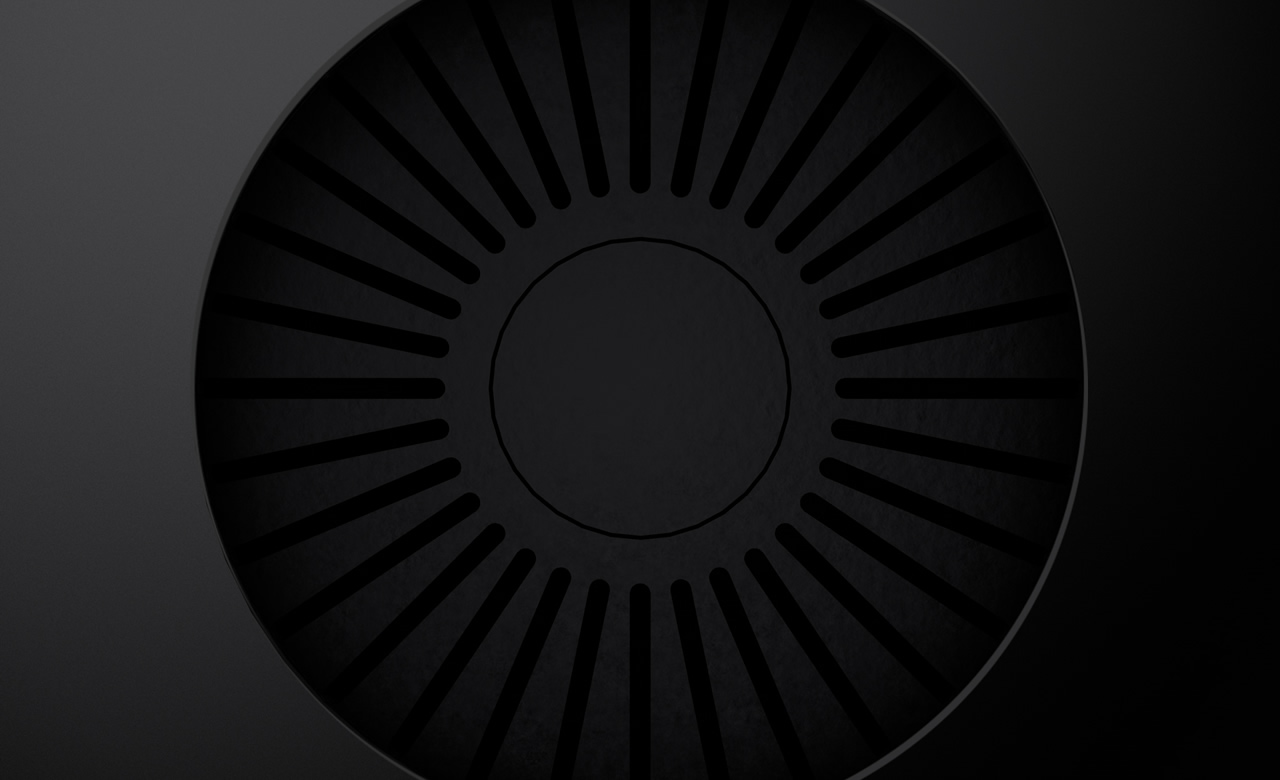
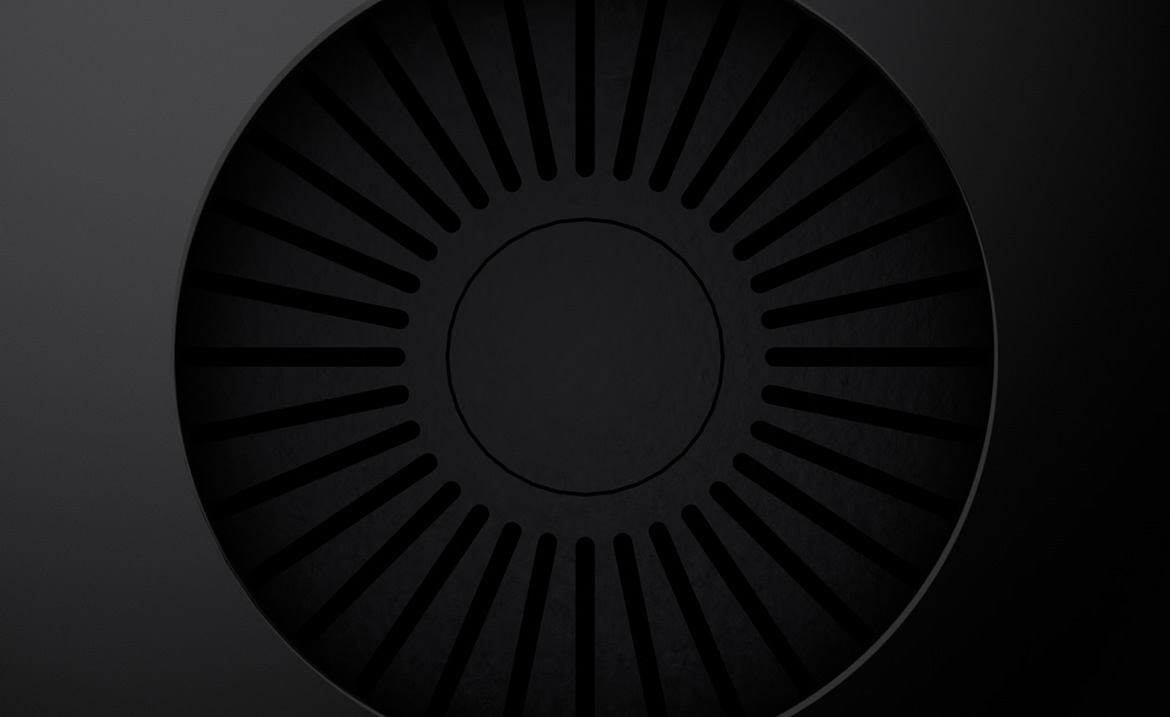
update style

diff --git a/index.html b/index.html
@@ -497,9 +497,11 @@ Mars is a new hub for music that fuses sci-fi design with precise, thoughtful en
     
     <div class="dv_100 hidden-xs"></div>
     <div class="dv_36 hidden-sm"></div>
-     <div class="row" style="margin-right:0px;">
-  <div class="col-lg-6"><img class="img-responsive" src="imgs/s2.jpg"/></div>
-  <div class="col-lg-6"><img class="img-responsive" src="imgs/s5.jpg"/></div></div>
+     <div class="row hidden-lg" style="margin-right:0px;">
+  <div class="col-xs-12 col-md-6 col-lg-6" style="padding:0;"><img class="img-responsive" src="imgs/s2.jpg"/></div><div class="dv_20 hidden-md hidden-lg"></div><div class="col-xs-12 col-md-6 col-lg-6" style="padding:0;"><img class="img-responsive" src="imgs/s5.jpg"/></div></div>
+  
+  <div class="row hidden-xs hidden-sm hidden-md" style="margin-right:0px;">
+  <div class="col-xs-12 col-md-6 col-lg-6"><img class="img-responsive" src="imgs/s2.jpg"/></div><div class="dv_20 hidden-md hidden-lg"></div><div class="col-xs-12 col-md-6 col-lg-6"><img class="img-responsive" src="imgs/s5.jpg"/></div></div>
 
   <div class="dv_22 hidden-xs"></div>
   

diff --git a/cn/index.html b/cn/index.html
@@ -484,10 +484,12 @@
     </div><!-- /.container -->    
     
     <div class="dv_100 hidden-xs"></div>
-    
-     <div class="row" style="margin-right:0px;">
-  <div class="col-lg-6"><img class="img-responsive" src="imgs/s2.jpg"/></div>
-  <div class="col-lg-6"><img class="img-responsive" src="imgs/s5.jpg"/></div></div>
+    <div class="dv_36 hidden-sm"></div>
+     <div class="row hidden-lg" style="margin-right:0px;">
+  <div class="col-xs-12 col-md-6 col-lg-6" style="padding:0;"><img class="img-responsive" src="imgs/s2.jpg"/></div><div class="dv_20 hidden-md hidden-lg"></div><div class="col-xs-12 col-md-6 col-lg-6" style="padding:0;"><img class="img-responsive" src="imgs/s5.jpg"/></div></div>
+  
+  <div class="row hidden-xs hidden-sm hidden-md" style="margin-right:0px;">
+  <div class="col-xs-12 col-md-6 col-lg-6"><img class="img-responsive" src="imgs/s2.jpg"/></div><div class="dv_20 hidden-md hidden-lg"></div><div class="col-xs-12 col-md-6 col-lg-6"><img class="img-responsive" src="imgs/s5.jpg"/></div></div>
 
   <div class="dv_22 hidden-xs"></div>
         
